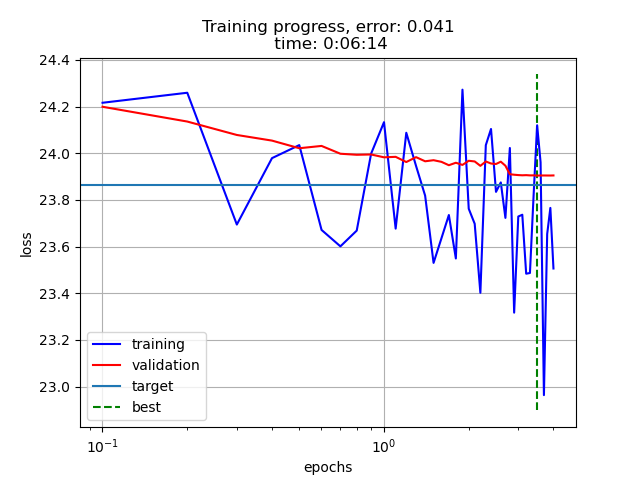
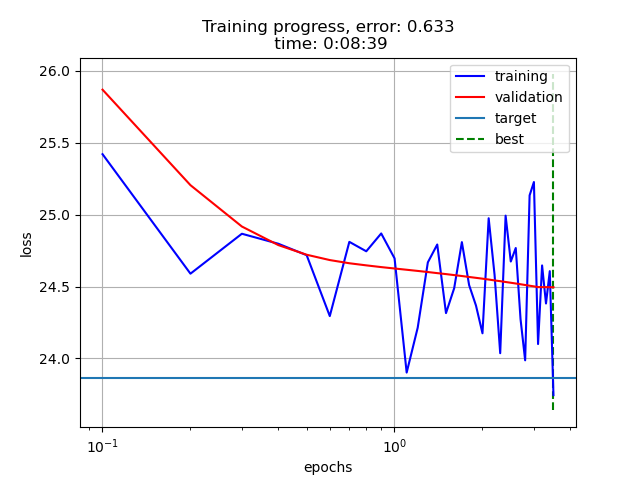
fix Adam step size shared variable persisting between trainings

diff --git a/Capacity/Estimation/Uniformization/NFEE-main/ml/step_strategies.py b/Capacity/Estimation/Uniformization/NFEE-main/ml/step_strategies.py
@@ -92,10 +92,16 @@ class Adam(StepStrategy):
         assert 0 < bv < 1, 'bv must be strictly between 0 and 1.'
         assert eps > 0, 'eps must be positive.'
 
-        self.a = theano.shared(np.asarray(a).astype(theano.config.floatX)) #allows for a to be changed later on
+        self.a = np.asarray(a).astype(theano.config.floatX)
+        self.a_t = theano.shared(self.a) #allows for a to be changed later on        
         self.bm = np.asarray(bm, dtype = dtype)
         self.bv = np.asarray(bv, dtype = dtype)
         self.eps = np.asarray(eps, dtype = dtype)
+
+        self.bm_t = None
+        self.bv_t = None
+        self.acc_m = None
+        self.acc_v = None
 
     def updates(self, parms, grads):
         """Return a list of updates to be made, both to adams's running averages and the parameters."""
@@ -112,7 +118,7 @@ class Adam(StepStrategy):
         new_acc_m = [self.bm * am + (1-self.bm).astype(dtype) * g for g, am in zip(grads, self.acc_m)]
         new_acc_v = [self.bv * av + (1-self.bv).astype(dtype) * g**2 for g, av in zip(grads, self.acc_v)]
 
-        step = self.a * tt.sqrt(1-new_bv_t) / (1-new_bm_t)
+        step = self.a_t * tt.sqrt(1-new_bv_t) / (1-new_bm_t)
         eps = self.eps * (1-new_bv_t)
         ds = [step * am / tt.sqrt(av + eps) for am, av in zip(new_acc_m, new_acc_v)]
 
@@ -121,11 +127,14 @@ class Adam(StepStrategy):
         return list(zip([self.bm_t, self.bv_t], [new_bm_t, new_bv_t])) + list(zip(self.acc_m, new_acc_m)) + list(zip(self.acc_v, new_acc_v)) + list(zip(parms, new_parms))
     
     def reset_shared(self):
-        self.bm_t.set_value(np.asarray(self.bm).astype(theano.config.floatX))
-        self.bv_t.set_value(np.asarray(self.bv).astype(theano.config.floatX))
+        if self.bm_t is not None:
+            #reset only if updates() has run to initialize shared variables
+            self.bm_t.set_value(np.asarray(self.bm).astype(theano.config.floatX))
+            self.bv_t.set_value(np.asarray(self.bv).astype(theano.config.floatX))
 
-        for am,av in zip(self.acc_m,self.acc_v):
-            am.set_value(np.zeros_like(am.get_value(borrow=True)))
-            av.set_value(np.zeros_like(av.get_value(borrow=True)))
+            for am,av in zip(self.acc_m,self.acc_v):
+                am.set_value(np.zeros_like(am.get_value(borrow=True)))
+                av.set_value(np.zeros_like(av.get_value(borrow=True)))
+        self.a_t.set_value(self.a)
 
 

diff --git a/Capacity/Estimation/Uniformization/NFEE-main/batch_size_test.py b/Capacity/Estimation/Uniformization/NFEE-main/batch_size_test.py
@@ -42,7 +42,7 @@ iter=0
 path = 'temp_data/batch_size/15N_100k_train'
 today=date.today().strftime("%b_%d")
 filename = "batch_data({})".format(today)
-filename = misc.update_filename(path=path,old_name=filename,iter=iter,rename=False)
+filename = misc.update_filename(path=path,old_name=filename,rename=False)
 # util.io.save((N_range,H_unif_KL,H_KL_laplace,MSE_uniform,MSE_KL,iter),os.path.join(path,filename))
 
 sim_laplace = mod.Laplace(mu=0,b=2,N=N)
@@ -111,10 +111,9 @@ for i in range(n_trials):
         plt.savefig(f"figs/MAF_batch/batch_{mini_batch}.png")
         plt.close()
 
+        filename=misc.update_filename(path,filename,i,rename=True)
         util.io.save((batch_size,N,error,duration),os.path.join(path,filename))
 
-    filename=misc.update_filename(path,filename,i+1,rename=True)
-    util.io.save((batch_size,N,error,duration),os.path.join(path,filename))
         
 
 

diff --git a/Capacity/Estimation/Uniformization/NFEE-main/ml/trainers.py b/Capacity/Estimation/Uniformization/NFEE-main/ml/trainers.py
@@ -296,8 +296,8 @@ class SGD(SGD_Template):
         """update the step size to use smaller step size for fine tuning during training
         """
         self.step.reset_shared()
-        new_a = np.asarray(self.step.a.get_value()*0.05).astype(theano.config.floatX)
-        self.step.a.set_value(new_a)
+        new_a = np.asarray(self.step.a_t.get_value()*0.05).astype(theano.config.floatX)
+        self.step.a_t.set_value(new_a)
         # step = ss.Adam(a=self.step.a*0.05, bm=self.step.bm, bv=self.step.bv, eps=self.step.eps)
 
         # idx = tt.ivector('idx')

diff --git a/Capacity/Estimation/Uniformization/NFEE-main/ent_est/entropy.py b/Capacity/Estimation/Uniformization/NFEE-main/ent_est/entropy.py
@@ -798,6 +798,8 @@ class UMestimator:
             step (step_strategies, optional): step type class. Defaults to ss.Adam().
         """
         
+        step.reset_shared() #shared variables can retain values between method calls
+
         if self.samples is None:
             xs = self.sim_model.sim(n_samples)
             self.samples = xs
